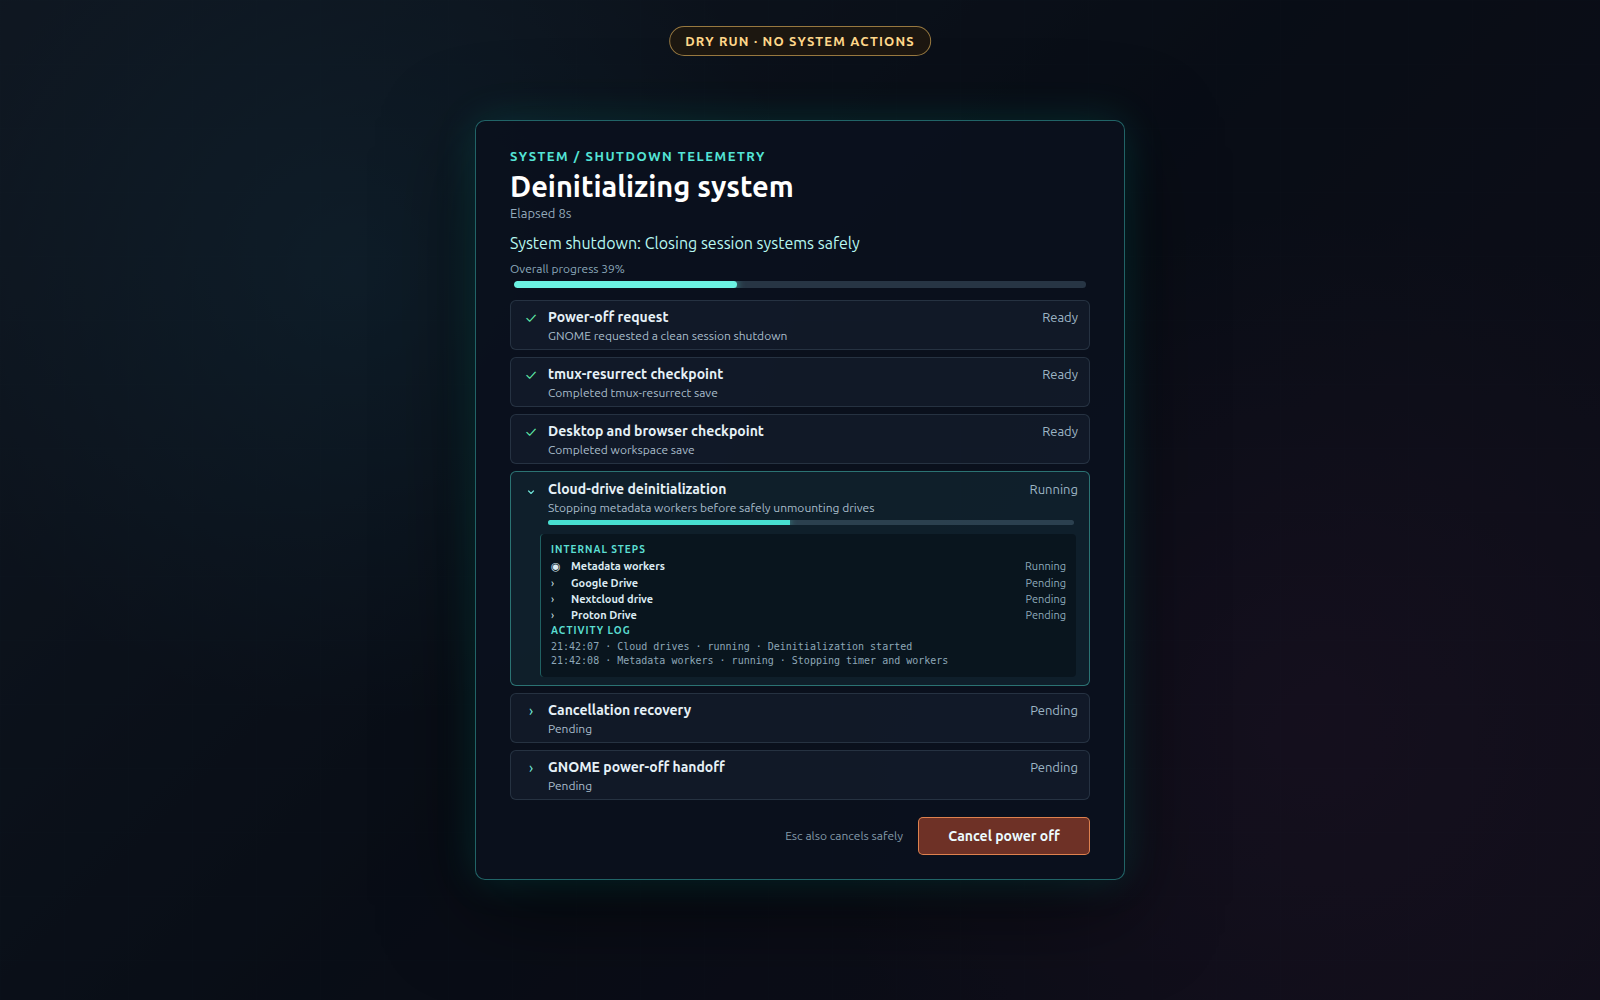
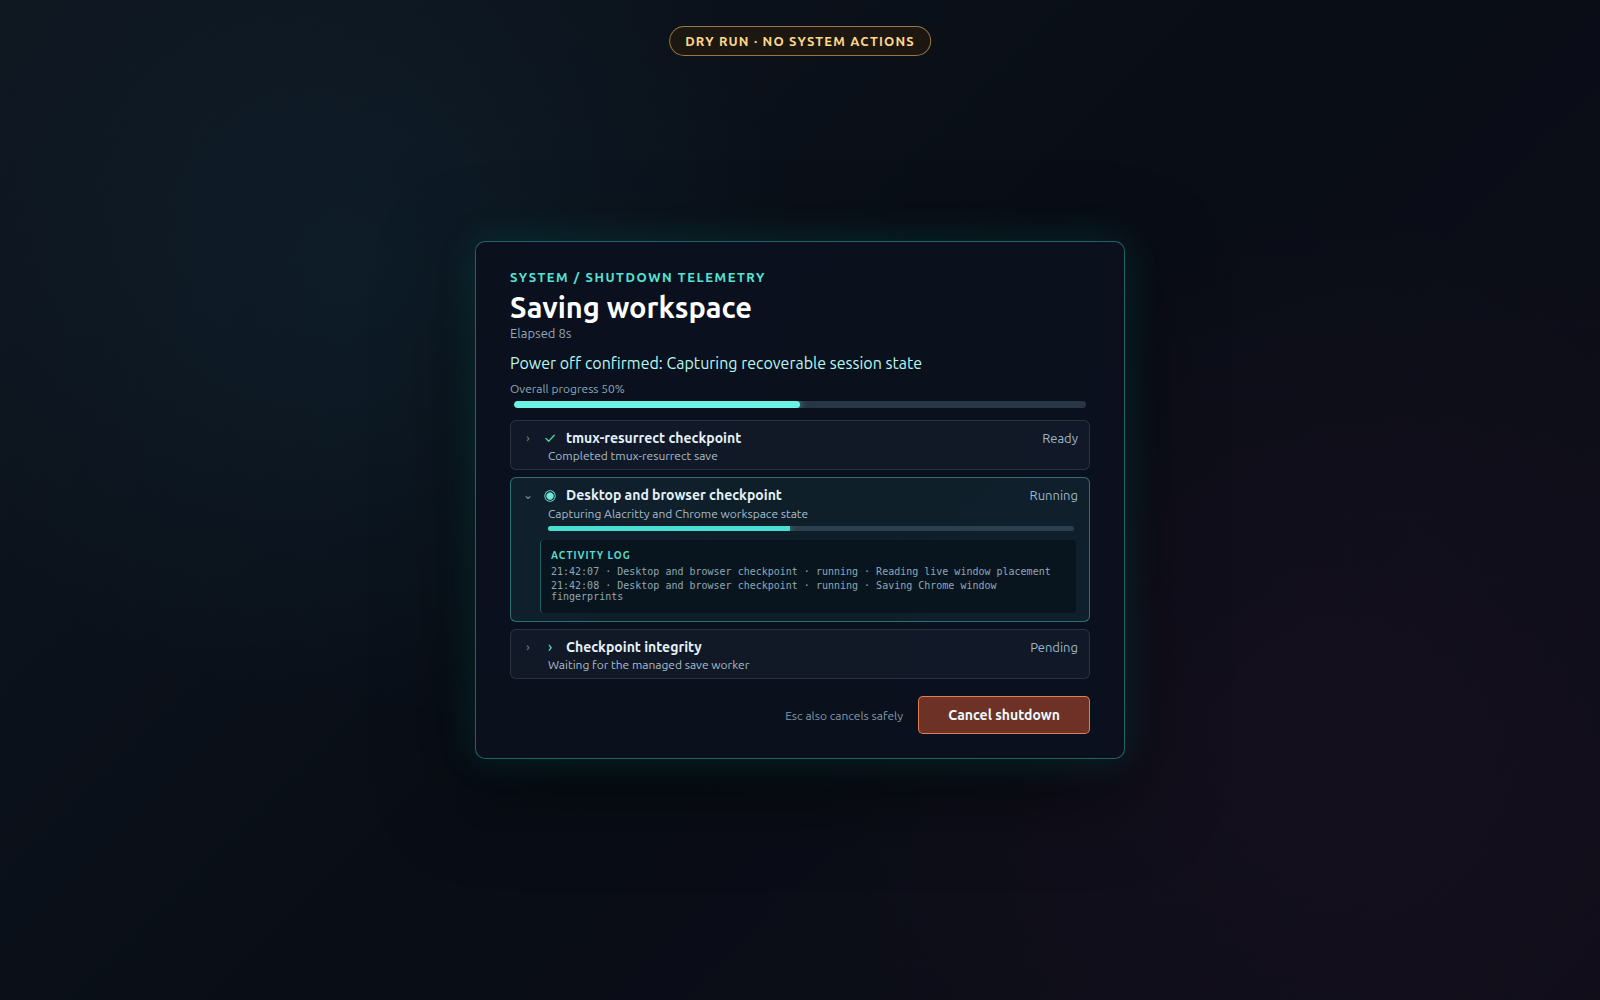
docs: record checkpoint-only shutdown flow

Changed region(s): [[0.3125, 0.155, 0.6875, 0.806], [0.5625, 0.806, 0.6875, 0.868]]

diff --git a/preview.html b/preview.html
@@ -82,7 +82,7 @@
     background: rgba(126, 164, 188, .25);
   }
   .fill {
-    width: 39%;
+    width: 50%;
     height: 100%;
     border-radius: inherit;
     background: #6bf2e2;
@@ -182,18 +182,15 @@
     <div class="dry-run">DRY RUN · NO SYSTEM ACTIONS</div>
     <section class="panel" role="dialog" aria-label="Shutdown monitor preview">
       <div class="kicker">SYSTEM / SHUTDOWN TELEMETRY</div>
-      <h1>Deinitializing system</h1>
+      <h1>Saving workspace</h1>
       <div class="elapsed">Elapsed 8s</div>
-      <div class="overall">System shutdown: Closing session systems safely</div>
-      <div class="progress-label">Overall progress 39%</div>
+      <div class="overall">Power off confirmed: Capturing recoverable session state</div>
+      <div class="progress-label">Overall progress 50%</div>
       <div class="track"><div class="fill"></div></div>
       <div class="rows">
-        <div class="row ready"><div class="heading"><span class="icon">✓</span><span class="name">GNOME shutdown request</span><span class="state">Ready</span></div><div class="message">GNOME requested a clean session shutdown</div></div>
         <div class="row ready"><div class="heading"><span class="icon">✓</span><span class="name">tmux-resurrect checkpoint</span><span class="state">Ready</span></div><div class="message">Completed tmux-resurrect save</div></div>
-        <div class="row ready"><div class="heading"><span class="icon">✓</span><span class="name">Desktop and browser checkpoint</span><span class="state">Ready</span></div><div class="message">Completed workspace save</div></div>
-        <div class="row running expanded"><div class="heading"><span class="icon">◉</span><span class="name">Cloud-drive deinitialization</span><span class="state">Running</span></div><div class="message">Stopping metadata workers before safely unmounting drives</div><div class="mini-track"><div class="mini-fill"></div></div><div class="details"><div class="detail-title">INTERNAL STEPS</div><div class="substep"><span>◉</span><strong>Metadata workers</strong><span>Running</span></div><div class="substep"><span>›</span><strong>Google Drive</strong><span>Pending</span></div><div class="substep"><span>›</span><strong>Nextcloud drive</strong><span>Pending</span></div><div class="substep"><span>›</span><strong>Proton Drive</strong><span>Pending</span></div><div class="detail-title">ACTIVITY LOG</div><div class="log-line">21:42:07 · Cloud drives · running · Deinitialization started</div><div class="log-line">21:42:08 · Metadata workers · running · Stopping timer and workers</div></div></div>
-        <div class="row"><div class="heading"><span class="icon">›</span><span class="name">Cancellation recovery</span><span class="state">Pending</span></div><div class="message">Pending</div></div>
-        <div class="row"><div class="heading"><span class="icon">›</span><span class="name">GNOME shutdown handoff</span><span class="state">Pending</span></div><div class="message">Pending</div></div>
+        <div class="row running expanded"><div class="heading"><span class="icon">◉</span><span class="name">Desktop and browser checkpoint</span><span class="state">Running</span></div><div class="message">Capturing Alacritty and Chrome workspace state</div><div class="mini-track"><div class="mini-fill"></div></div><div class="details"><div class="detail-title">ACTIVITY LOG</div><div class="log-line">21:42:07 · Desktop and browser checkpoint · running · Reading live window placement</div><div class="log-line">21:42:08 · Desktop and browser checkpoint · running · Saving Chrome window fingerprints</div></div></div>
+        <div class="row"><div class="heading"><span class="icon">›</span><span class="name">Checkpoint integrity</span><span class="state">Pending</span></div><div class="message">Waiting for the managed save worker</div></div>
       </div>
       <div class="actions"><span class="esc">Esc also cancels safely</span><button type="button">Cancel shutdown</button></div>
     </section>

diff --git a/README.md b/README.md
@@ -52,21 +52,21 @@ Writers should write a complete replacement to a temporary file in the same dire
 }
 ```
 
-Required top-level fields are `schema_version` (currently `1`), `session_id`, `started_at`, `updated_at`, `overall_state`, `overall_message`, `stages`, and `error_log_path`. `mode` is optional and may be `startup` (the default) or `shutdown`. `show_startup_hud` defaults to `true`; wsctl sets it to `false` on later GNOME logins during an already-claimed OS boot. Shutdown documents always remain eligible and also require a unique `operation_id` and publish `cancelled` as a boolean. They may publish `shutdown_action` (`poweroff` or `restart`) and `shutdown_origin` (`preflight` or `gnome`). The request document is used as a backwards-compatible source for omitted preflight values. The extension validates `session_id` against the current GNOME Session Manager owner before accepting the document, so status left by an earlier login cannot flash or acquire a stale shutdown grab. `error_log_path` must be an absolute local path; it is only used when a failed stage or `overall_state: "failed"` is present.
+Required top-level fields are `schema_version` (currently `1`), `session_id`, `started_at`, `updated_at`, `overall_state`, `overall_message`, `stages`, and `error_log_path`. `mode` is optional and may be `startup` (the default) or `shutdown`. `show_startup_hud` defaults to `true`; wsctl sets it to `false` on later GNOME logins during an already-claimed OS boot. Shutdown documents also require a unique `operation_id`, `cancelled`, an explicit `shutdown_action` (`poweroff` or `restart`), and `shutdown_origin: "preflight"`. The extension displays a shutdown document only when its operation matches the private request created by the extension after native confirmation. It also validates `session_id` against the current GNOME Session Manager owner, so backend-only or stale status cannot flash or acquire a shutdown grab. `error_log_path` must be an absolute local path; it is only used when a failed stage or `overall_state: "failed"` is present.
 
 Stage fields are `id`, `state`, `message`, and either `label` (the wsctl producer) or `name`. Progress can be supplied as optional numeric `current`/`total` counts or as `fraction` (clamped to 0–1). Supported states are `pending`, `waiting`, `running`, `ready`, `degraded`, `failed`, and `skipped`. A non-terminal stage without measurable progress displays an indeterminate spinner.
 
-Every displayed job is expandable by mouse or keyboard. Its `events` array is shown as a timestamped activity log; the wsctl producer keeps the last 32 distinct state/message transitions per stage. Stages with the same `group_id` are rendered as one aggregate job using `group_label`. Expanding that job shows each internal stage and a merged chronological log. Startup combines GNOME Wayland with display/workspace readiness, combines tmux-resurrect with Alacritty/tmux reconciliation, and combines `gdrive`, `nextcloud`, `pdrive`, and `warmup` as a single cloud-drive job. Shutdown similarly groups metadata stop with the three verified unmount stages.
+Every displayed job is expandable by mouse or keyboard. Its `events` array is shown as a timestamped activity log; the wsctl producer keeps the last 32 distinct state/message transitions per stage. Stages with the same `group_id` are rendered as one aggregate job using `group_label`. Expanding that job shows each internal stage and a merged chronological log. Startup combines GNOME Wayland with display/workspace readiness, combines tmux-resurrect with Alacritty/tmux reconciliation, and combines `gdrive`, `nextcloud`, `pdrive`, and `warmup` as a single cloud-drive job. Shutdown contains only the tmux checkpoint, desktop/browser checkpoint, and checkpoint-integrity proof. It never stops cloud drives, warm-up services, or GNOME components; Ubuntu performs normal service teardown after the handoff.
 
-The overview progress is derived from displayed jobs, so the combined cloud-drive workflow has the same top-level weight as any other job. A grouped job's progress is the average of its internal stages. A terminal stage without a fraction counts as complete; a non-terminal stage without one counts as not-yet-complete. Expanded content scrolls inside a bounded panel rather than growing beyond the screen.
+The overview progress is derived from displayed jobs. A grouped job's progress is the average of its internal stages. A terminal stage without a fraction counts as complete; a non-terminal stage without one counts as not-yet-complete. Expanded content scrolls inside a bounded panel rather than growing beyond the screen.
 
 In `startup` mode, when every stage is terminal (`ready`, `degraded`, `failed`, or `skipped`) and none failed, the HUD exposes **OK**. Startup controls do not focus themselves or capture keyboard/pointer input; they can be clicked or reached normally from the bounded panel.
 
-For an ordinary power-off or restart, GNOME first shows its stock confirmation. When the user confirms, the extension intercepts GNOME's final `ConfirmedShutdown` or `ConfirmedReboot` signal, writes a private `shutdown-request.json`, closes the old native modal, and retains the exact original signal. The coordinator performs the save/unmount work while the HUD remains modal. The extension never emits the retained signal merely because status says ready. It first waits for the ready HUD to be allocated and painted, writes `shutdown-hud-rendered.json`, displays a visible three-second countdown, writes `shutdown-commit.json`, and finally requires a matching `shutdown-prepared.json` before invoking GNOME's saved confirmation exactly once. A coordinator-originated shutdown uses the same acknowledgement and commit barrier but does not invoke a second GNOME action.
+For an ordinary power-off or restart, GNOME first shows its stock confirmation. GNOME's early `QueryEndSession` is answered passively and cannot start a HUD or checkpoint. Only after the user presses the final **Power Off** or **Restart** button does the extension intercept the corresponding `_confirm` callback and retain the exact original signal. It waits until the native dialog is fully closed, writes a private `shutdown-request.json`, and then allows the coordinator to show the modal HUD and save tmux plus desktop/browser state. The extension never emits the retained signal merely because status says ready. It first waits for the ready HUD to be allocated and painted, writes `shutdown-hud-rendered.json`, displays a visible three-second countdown, writes `shutdown-commit.json`, and finally requires a matching `shutdown-prepared.json` before invoking GNOME's saved confirmation. If GNOME subsequently presents **Power Off Anyway** because another application inhibited logout, that confirmation continues the already prepared operation without starting another checkpoint.
 
-During shutdown, **Cancel shutdown** remains available until the final handoff and `Esc` invokes the same action. The extension atomically writes an operation-bound `shutdown-cancel.json` and cancels GNOME's pending DBus dialog exactly once; retrying that cancellation could accidentally close a later, unrelated dialog. The managed worker then restores systems affected by partial deinitialization. A failed stage never commits or invokes the original action, cancels the pending preflight request, keeps the HUD visible, and exposes **Show full error log** and **Close**. Disabling the extension during active preflight also cancels both sides. If no matching status arrives within 15 seconds, shutdown is safely cancelled instead of leaving an invisible pending transaction.
+During shutdown, **Cancel shutdown** remains available until the final handoff and `Esc` invokes the same action. The extension atomically writes an operation-bound `shutdown-cancel.json`, stops only the checkpoint worker, and cancels GNOME's pending DBus dialog exactly once; retrying that cancellation could accidentally close a later, unrelated dialog. Since the preflight changes no drive or OS-service state, cancellation requires no remount or recovery phase. A failed stage never commits or invokes the original action, keeps the HUD visible, and exposes **Show full error log** and **Close**. Disabling the extension during active preflight also cancels both sides. If no matching status arrives within 15 seconds, shutdown is safely cancelled instead of leaving an invisible pending transaction.
 
-The special GNOME **Boot Options** restart remains on GNOME's native path because it changes bootloader state before confirmation and therefore cannot safely offer a reversible HUD preflight. Direct noninteractive logind/systemd power commands are likewise outside this Shell UI hook and remain the backend inhibitor's responsibility.
+The special GNOME **Boot Options** restart remains on GNOME's native path because it changes bootloader state before confirmation and therefore cannot safely offer a reversible HUD preflight. Direct noninteractive logind/systemd power commands are likewise outside this Shell UI hook and follow Ubuntu's native shutdown path without the HUD.
 
 A new `session_id` or a change between `startup` and `shutdown` resets a prior dismissal. This lets a shutdown HUD reappear after its startup HUD was dismissed, while the normal lock-screen and greeter hiding rules still apply.
 

diff --git a/VERIFICATION.md b/VERIFICATION.md
@@ -1,6 +1,6 @@
 # Verification record
 
-Last checked: `2026-09-03T22:03:10+03:00` on GNOME Shell 46.0, native
+Last checked: `2026-09-04T01:36:16+03:00` on GNOME Shell 46.0, native
 Wayland.
 
 ## Confirmed
@@ -14,10 +14,21 @@ Wayland.
   byte-identical to the tracked source.
 - `login-hud-v2@sagecat.local` is present in GNOME's `enabled-extensions`
   setting.
-- The shutdown path retains GNOME's original confirmation, requires a rendered
-  HUD acknowledgement and visible countdown, and releases the retained action
-  only after a matching prepared marker. Cancellation is operation-bound and
-  emitted at most once.
+- The initial GNOME `QueryEndSession` is passive. A shutdown request is created
+  only from the final native `_confirm` callback and only after that dialog is
+  fully closed.
+- Shutdown work contains only tmux, desktop/browser, and integrity checkpoints.
+  It has no cloud-drive, mount, warm-up, or GNOME deinitialization commands.
+- The shutdown path requires a rendered HUD acknowledgement, visible countdown,
+  and a prepared marker matching the operation, session, and action. Prepared
+  polling is bounded, and cancellation is operation-bound and emitted at most
+  once across repeated status updates.
+- The complete workspace test target passes: 140 Python tests, the Chrome
+  extension protocol checks, 14 gnome-winctl Python tests, 31 gnome-winctl Node
+  tests, and the Login HUD static checks.
+- The live coordinator is active, all three cloud-drive services remain active
+  and mounted, and the current startup status is ready with
+  `show_startup_hud: false`.
 
 ## Activation boundary
 
